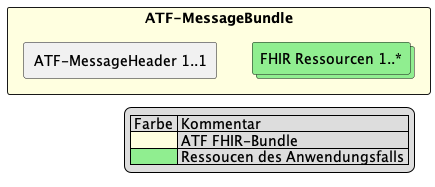
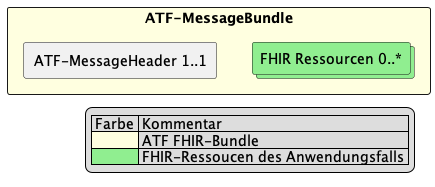
Beschreibung des scopes und Abgrenzung

Changed region(s): [[0.1793, 0.5615, 0.6874, 0.9358], [0.8667, 0.2674, 0.8966, 0.3476]]

diff --git a/src/fhir/guides/ig-atf/Home/Einfuehrung.page.md b/src/fhir/guides/ig-atf/Home/Einfuehrung.page.md
@@ -26,3 +26,10 @@ Historisch ist MessageHeader.eventCode ein wesentlicher Bezeichner, der angibt, 
 
 Der EventCode drückt aus, welcher Anwendungsfall und welcher Übertragungsweg innerhalb eines Anwendungsfalls behandelt wird.
 
+## Einordnung und Abgrenzung
+
+Diese Spezifikation beschreibt den umgebenden Container (MessageBundle) und einen Eintrag in diesem Bundle, der immer vorhanden sein muss. Die Anwendungsfälle, die von diesem Projekt abhängen werden möglicherweise weitere Einschränkungen am Bundle und MessageHeader vornehmen, aber das Kommunikationspattern übernehmen.
+
+Jede Nachricht besteht also aus einem Bundle, welches mindestens den MessageHeader und je nach Anwendungsfall weitere Ressourcen enthält.
+
+{{render:guides/ig-atf/images/ATF-Scopes.png}}
